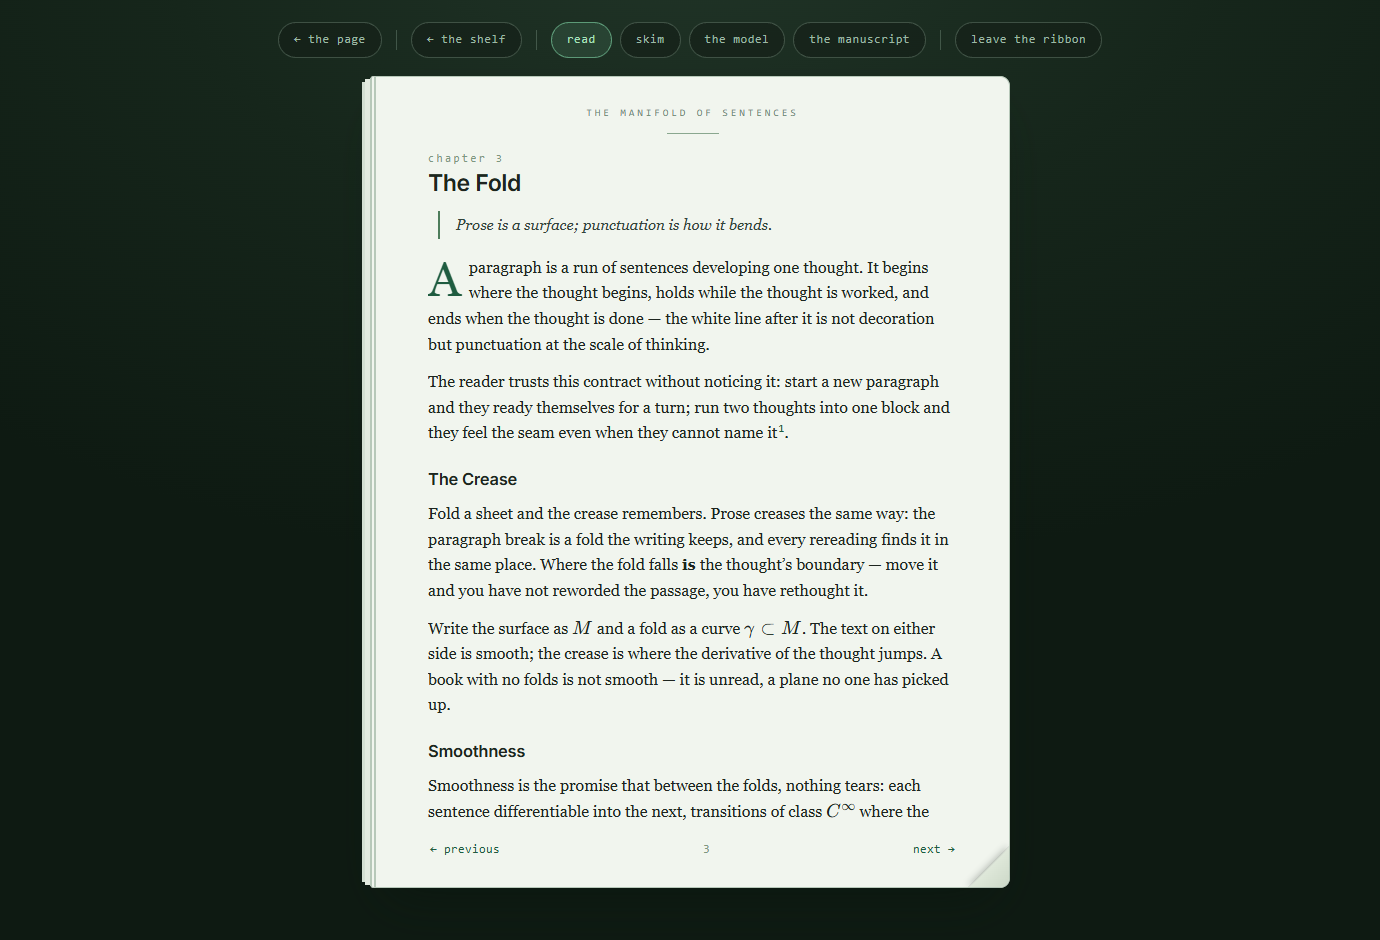
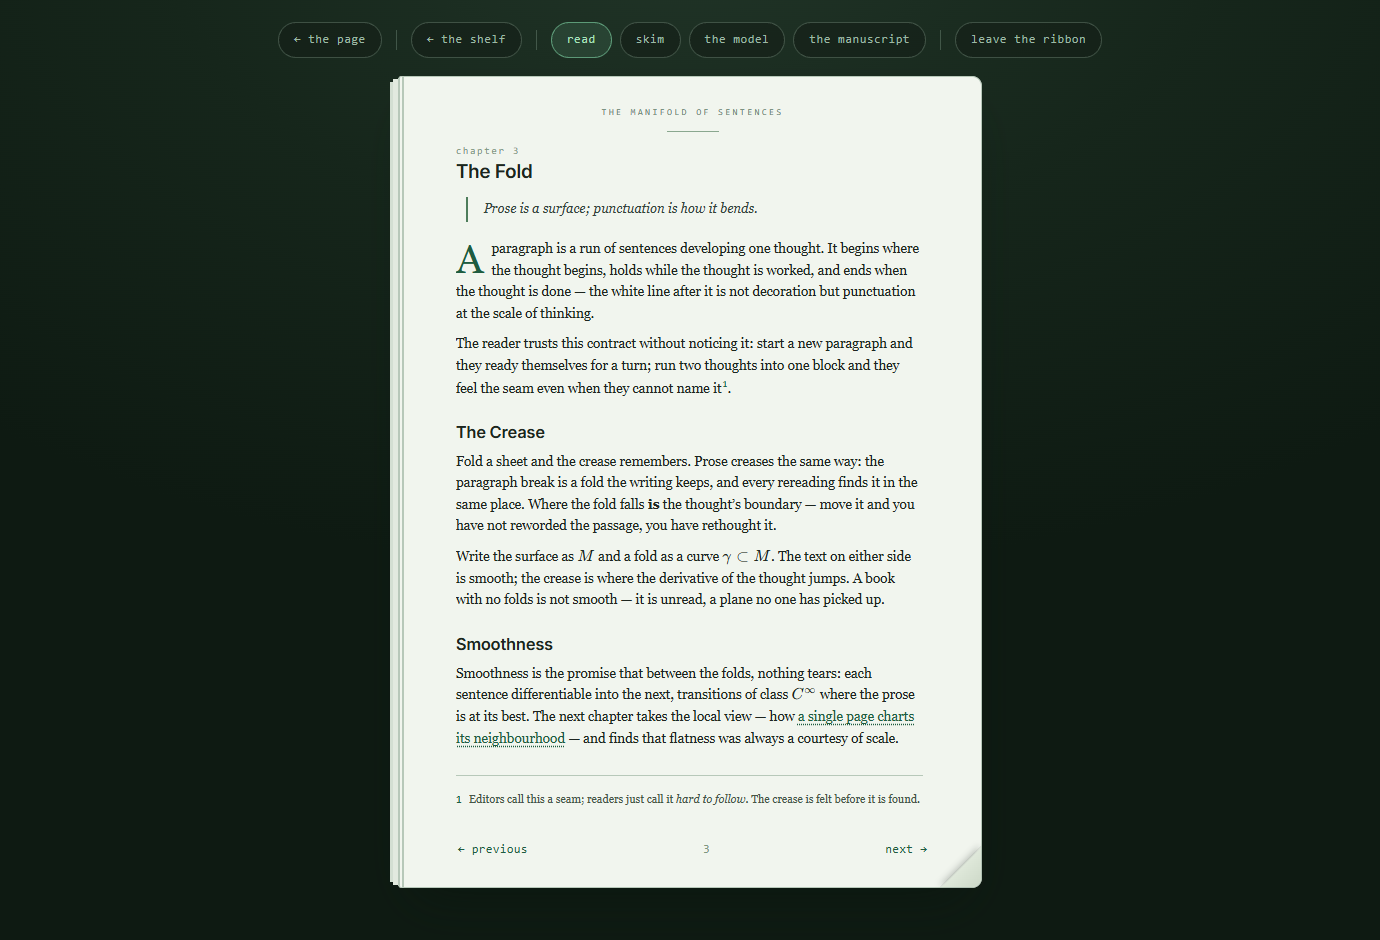
The shelf goes quiet and digital (Doug): the two real books shoulder to shoulder — oxblood and green among graphite placeholder spines that read as slots to be filled — heights drawn to a narrow band, everything upright, no leaning; hairline platform, one soft shadow, restrained palette, subtle shad

Changed region(s): [[0.2493, 0.0617, 0.7478, 0.9564], [0.4362, 0.0926, 0.4986, 0.1234], [0.5297, 0.0926, 0.5609, 0.1234]]

diff --git a/library/.public/package/app/src/sections/book/shelf.styled.ts b/library/.public/package/app/src/sections/book/shelf.styled.ts
@@ -5,149 +5,110 @@ export const Room = styled.div`
     overflow: hidden;
     position: relative;
     background:
-        radial-gradient(1040px 600px at 50% 56%, rgba(214, 160, 96, 0.17) 0%, rgba(120, 80, 44, 0.07) 46%, rgba(0, 0, 0, 0) 74%),
-        radial-gradient(1500px 950px at 50% 28%, #251b12 0%, #170f0a 55%, #0b0806 100%);
-    box-shadow: inset 0 0 190px 44px rgba(0, 0, 0, 0.55);
+        radial-gradient(1100px 640px at 50% 58%, rgba(255, 255, 255, 0.028) 0%, rgba(255, 255, 255, 0) 70%),
+        linear-gradient(180deg, #17191d 0%, #101216 55%, #0c0e11 100%);
 `;
 
 export const PageLink = styled.a`
     position: absolute;
-    top: 18px;
-    left: 22px;
+    top: 20px;
+    left: 24px;
     font-family: ui-monospace, Menlo, Consolas, monospace;
     font-size: 11px;
-    letter-spacing: 0.12em;
-    color: rgba(202, 169, 111, 0.5);
+    letter-spacing: 0.1em;
+    color: rgba(200, 204, 208, 0.38);
     text-decoration: none;
     transition: color 140ms;
 
     &:hover {
-        color: rgba(224, 194, 138, 0.9);
+        color: rgba(224, 227, 230, 0.85);
     }
 `;
 
 export const Caption = styled.div`
     position: absolute;
-    top: 8vh;
+    top: 9vh;
     width: 100%;
     text-align: center;
     font-family: Georgia, 'Times New Roman', serif;
-    font-size: 12px;
-    letter-spacing: 0.46em;
+    font-size: 11.5px;
+    letter-spacing: 0.5em;
     text-transform: uppercase;
-    color: rgba(202, 169, 111, 0.78);
+    color: rgba(196, 200, 205, 0.6);
 
     em {
         display: block;
-        margin-top: 11px;
-        font-size: 12.5px;
+        margin-top: 10px;
+        font-size: 12px;
         font-style: italic;
-        letter-spacing: 0.05em;
+        letter-spacing: 0.04em;
         text-transform: none;
-        color: rgba(160, 132, 92, 0.62);
+        color: rgba(150, 155, 161, 0.5);
     }
 `;
 
 export const Board = styled.div`
     position: absolute;
     left: 50%;
-    bottom: 10vh;
+    bottom: 12vh;
     transform: translateX(-50%);
-    width: min(960px, 94vw);
+    width: min(760px, 92vw);
 `;
 
 export const Row = styled.div`
     display: flex;
     align-items: flex-end;
     justify-content: center;
-    gap: 7px;
-    padding: 0 36px;
+    gap: 8px;
+    padding: 0 26px;
 `;
 
 export const BoardTop = styled.div`
-    height: 15px;
+    height: 10px;
     border-radius: 2px;
-    background: linear-gradient(180deg, #6d4b2e 0%, #4a3018 42%, #2c1b0d 100%);
-    box-shadow:
-        inset 0 1px 0 rgba(255, 219, 166, 0.35),
-        inset 0 -2px 3px rgba(0, 0, 0, 0.5),
-        0 12px 26px -6px rgba(0, 0, 0, 0.75);
+    background: rgba(255, 255, 255, 0.045);
+    border-top: 1px solid rgba(255, 255, 255, 0.1);
+    box-shadow: 0 16px 34px -14px rgba(0, 0, 0, 0.7);
 `;
 
 export const BoardShadow = styled.div`
-    height: 30px;
-    background: radial-gradient(58% 100% at 50% 0%, rgba(0, 0, 0, 0.5) 0%, rgba(0, 0, 0, 0) 72%);
+    height: 22px;
+    background: radial-gradient(52% 100% at 50% 0%, rgba(0, 0, 0, 0.32) 0%, rgba(0, 0, 0, 0) 70%);
 `;
 
-export const Spine = styled.div<{ $ink: string; $tall: number; $wide: number; $lean?: number; $held?: boolean }>`
+export const Spine = styled.div<{ $ink: string; $tall: number; $wide: number; $held?: boolean }>`
     position: relative;
     flex-shrink: 0;
     width: ${(p) => p.$wide}px;
     height: ${(p) => p.$tall}vh;
     background-color: ${(p) => p.$ink};
-    background-image:
-        linear-gradient(180deg, rgba(255, 240, 214, 0.08) 0%, rgba(0, 0, 0, 0.05) 30%, rgba(0, 0, 0, 0.16) 76%, rgba(0, 0, 0, 0.3) 100%),
-        linear-gradient(90deg, rgba(255, 238, 206, 0.2) 0%, rgba(255, 238, 206, 0.05) 15%, rgba(0, 0, 0, 0) 48%, rgba(0, 0, 0, 0.18) 84%, rgba(0, 0, 0, 0.38) 100%);
-    border-radius: 3px 3px 1px 1px;
+    background-image: linear-gradient(180deg, rgba(255, 255, 255, 0.05) 0%, rgba(255, 255, 255, 0.01) 40%, rgba(0, 0, 0, 0.1) 100%);
+    border: 1px solid rgba(255, 255, 255, 0.055);
+    border-radius: 3px;
     box-shadow:
-        inset 0 2px 0 rgba(255, 240, 210, 0.12),
-        inset -1px 0 0 rgba(0, 0, 0, 0.3),
-        0 9px 14px -5px rgba(0, 0, 0, 0.65);
-    transform: rotate(${(p) => p.$lean ?? 0}deg);
-    transform-origin: bottom ${(p) => ((p.$lean ?? 0) >= 0 ? 'right' : 'left')};
+        inset 1px 0 0 rgba(255, 255, 255, 0.06),
+        0 8px 18px -8px rgba(0, 0, 0, 0.6);
     display: flex;
     align-items: center;
     justify-content: center;
     cursor: ${(p) => (p.$held ? 'pointer' : 'default')};
-    transition: transform 170ms ease, filter 170ms ease;
-
-    &::before {
-        content: '';
-        position: absolute;
-        top: 7px;
-        left: 3px;
-        right: 3px;
-        height: 3px;
-        background: rgba(0, 0, 0, 0.3);
-        box-shadow: 0 1px 0 rgba(255, 235, 195, 0.14);
-    }
-
-    &::after {
-        content: '';
-        position: absolute;
-        bottom: 9px;
-        left: 3px;
-        right: 3px;
-        height: 3px;
-        background: rgba(0, 0, 0, 0.26);
-        box-shadow: 0 -1px 0 rgba(255, 235, 195, 0.1);
-    }
+    transition: transform 160ms ease, filter 160ms ease;
 
     ${(p) => p.$held && `
         &:hover {
-            transform: translateY(-9px) rotate(${p.$lean ?? 0}deg);
-            filter: brightness(1.09);
+            transform: translateY(-6px);
+            filter: brightness(1.07);
         }
     `}
 `;
 
 export const SpineTitle = styled.span`
     writing-mode: vertical-rl;
-    max-height: 84%;
+    max-height: 86%;
     overflow: hidden;
     font-family: Georgia, 'Times New Roman', serif;
-    font-size: 13px;
-    letter-spacing: 0.13em;
-    color: #d9bd85;
-    text-shadow: 0 1px 1px rgba(0, 0, 0, 0.55);
-`;
-
-export const Tooling = styled.span`
-    position: absolute;
-    top: 22px;
-    left: 5px;
-    right: 5px;
-    height: 9px;
-    border-top: 1px solid rgba(217, 189, 133, 0.22);
-    border-bottom: 1px solid rgba(217, 189, 133, 0.14);
+    font-size: 12.5px;
+    letter-spacing: 0.12em;
+    color: #cfc7b8;
+    text-shadow: 0 1px 0 rgba(0, 0, 0, 0.35);
 `;

diff --git a/library/.public/package/app/src/sections/the-books.tsx b/library/.public/package/app/src/sections/the-books.tsx
@@ -3,20 +3,18 @@ import { $, $Chemical } from '@dna-platform/chemistry';
 import { algebra } from './book/library/algebra/book';
 import { manifold } from './book/library/the-manifold/book';
 import { TheManifold } from './the-manifold';
-import { Room, PageLink, Caption, Board, Row, BoardTop, BoardShadow, Spine, SpineTitle, Tooling } from './book/shelf.styled';
+import { Room, PageLink, Caption, Board, Row, BoardTop, BoardShadow, Spine, SpineTitle } from './book/shelf.styled';
 
-type SpineData = { key?: string; href?: string; title?: string; ink: string; tall: number; wide: number; lean?: number; nudge?: number };
+type SpineData = { key?: string; href?: string; title?: string; ink: string; tall: number; wide: number };
 
 const spines: SpineData[] = [
-    { ink: '#31404f', tall: 37, wide: 30 },
-    { ink: '#5c4632', tall: 43, wide: 34 },
-    { key: 'algebra', href: '/page', title: algebra.title?.copy ?? '', ink: '#5a2320', tall: 52, wide: 52 },
-    { ink: '#3f4a36', tall: 35, wide: 26 },
-    { ink: '#2e2b33', tall: 46, wide: 38, lean: 4.5, nudge: -9 },
-    { key: 'manifold', title: manifold.title?.copy ?? '', ink: '#274a3a', tall: 55, wide: 50 },
-    { ink: '#6e4a38', tall: 41, wide: 30 },
-    { ink: '#584a63', tall: 33, wide: 24 },
-    { ink: '#403a2a', tall: 44, wide: 36 },
+    { ink: '#24272c', tall: 48, wide: 42 },
+    { ink: '#282c31', tall: 50, wide: 44 },
+    { key: 'algebra', href: '/page', title: algebra.title?.copy ?? '', ink: '#5b2f2a', tall: 52, wide: 50 },
+    { key: 'manifold', title: manifold.title?.copy ?? '', ink: '#2c4a3c', tall: 52, wide: 50 },
+    { ink: '#2c3036', tall: 50, wide: 44 },
+    { ink: '#22252a', tall: 49, wide: 40 },
+    { ink: '#2f333a', tall: 51, wide: 46 },
 ];
 
 class $TheBooks extends $Chemical {
@@ -42,9 +40,7 @@ class $TheBooks extends $Chemical {
                                     ? <Spine key={i} className="shelf-card" data-book={b.key} $ink={b.ink} $tall={b.tall} $wide={b.wide} $held onClick={() => { this.opened = b.key!; }}>
                                         <SpineTitle>{b.title}</SpineTitle>
                                     </Spine>
-                                    : <Spine key={i} $ink={b.ink} $tall={b.tall} $wide={b.wide} $lean={b.lean} style={b.nudge ? { marginRight: b.nudge } : undefined}>
-                                        <Tooling />
-                                    </Spine>
+                                    : <Spine key={i} $ink={b.ink} $tall={b.tall} $wide={b.wide} />
                         ))}
                     </Row>
                     <BoardTop />

diff --git a/library/.public/package/app/src/sections/book/manifold.styled.ts b/library/.public/package/app/src/sections/book/manifold.styled.ts
@@ -145,8 +145,9 @@ export const Page = styled.div`
     border-left: 6px double #b7c8b9;
     border-radius: 3px 10px 10px 3px;
     box-shadow: -8px 0 0 -3px #e2eadf, -14px 0 0 -6px #d3dfd2, 0 24px 48px -20px rgba(8, 20, 13, 0.55);
-    width: min(640px, 94vw);
+    width: min(calc((100vh - 128px) * 0.72), 94vw);
     height: calc(100vh - 128px);
+    font-size: 13.5px;
     min-height: 0;
     margin: 4px auto 12px;
     padding: 28px 52px 22px;
@@ -186,14 +187,14 @@ export const Quote = styled.blockquote`
     border-left: 2px solid #4e7d5b;
     font-style: italic;
     color: #33443a;
-    font-size: 15px;
+    font-size: 13px;
 `;
 
 export const FootNotes = styled.div`
     margin-top: 26px;
     padding-top: 10px;
     border-top: 1px solid #b7c8b9;
-    font-size: 12.5px;
+    font-size: 11px;
     color: #465548;
     line-height: 1.55;
 
@@ -377,7 +378,7 @@ export const PageTurns = styled.div`
     display: flex;
     justify-content: space-between;
     align-items: baseline;
-    margin-top: 14px;
+    margin-top: 10px;
     font-family: ui-monospace, Menlo, Consolas, monospace;
     font-size: 11.5px;
     letter-spacing: 0.06em;
@@ -488,9 +489,9 @@ export const CodeTab = styled.button<{ $active?: boolean }>`
 `;
 
 export const CodeBlock = styled.div`
-    padding: 16px 20px 20px;
+    padding: 12px 14px 14px;
     overflow-x: auto;
-    font-size: 12.5px;
+    font-size: 10.5px;
     line-height: 1.55;
 
     pre {
@@ -509,12 +510,12 @@ export const CodeBlock = styled.div`
 
 export const RunningHead = styled.div`
     font-family: ui-monospace, Menlo, Consolas, monospace;
-    font-size: 10px;
-    letter-spacing: 0.3em;
+    font-size: 9px;
+    letter-spacing: 0.26em;
     text-transform: uppercase;
     color: #6f8b77;
     text-align: center;
-    margin-bottom: 16px;
+    margin-bottom: 11px;
 
     &::after {
         content: '';
@@ -528,14 +529,14 @@ export const RunningHead = styled.div`
 
 export const ChapterNumber = styled.div`
     font-family: ui-monospace, Menlo, Consolas, monospace;
-    font-size: 11px;
-    letter-spacing: 0.22em;
+    font-size: 9.5px;
+    letter-spacing: 0.2em;
     color: #7d977f;
     margin-bottom: 3px;
 `;
 
 export const ChapterTitle = styled.h2`
-    font-size: 23px;
+    font-size: 19px;
     font-weight: 600;
     margin: 0 0 2px;
 `;
@@ -547,7 +548,7 @@ export const ChapterSubtitle = styled.div`
 `;
 
 export const Prose = styled.p<{ $drop?: boolean }>`
-    margin: 12px 0;
+    margin: 9px 0;
 
     ${(p) => p.$drop && `
         &::first-letter {
